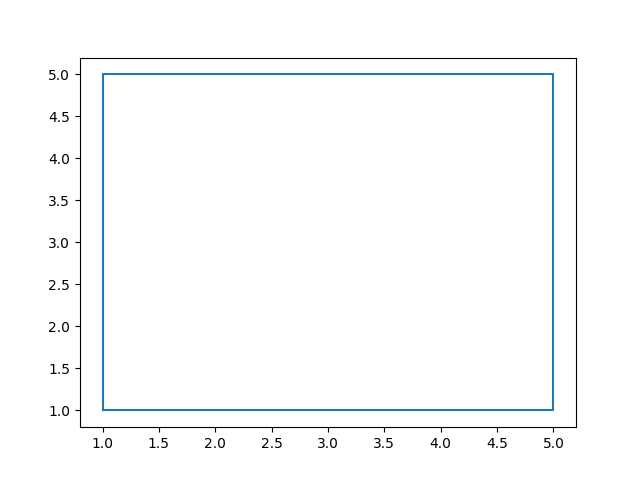
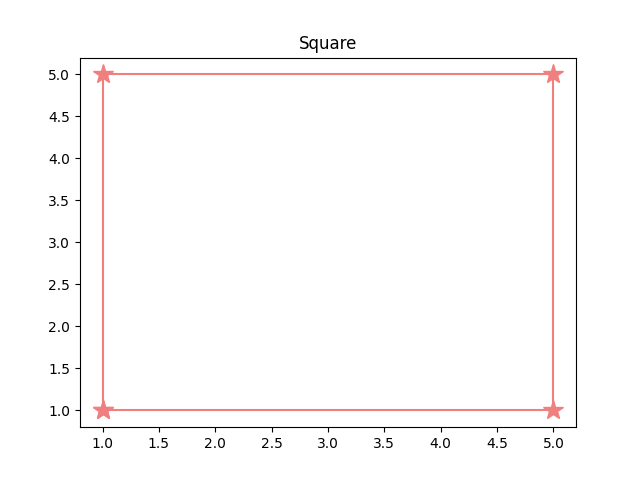
less 6

Changed region(s): [[0.1562, 0.0625, 0.875, 0.1875], [0.125, 0.8125, 0.875, 0.875]]

diff --git a/lab_6_osn_task2.py b/lab_6_osn_task2.py
@@ -1,10 +1,14 @@
 import matplotlib.pyplot as plt
 import numpy as np
 
-def hyperbola(k, N, x_min, x_max):
+def hyperbola(k, a, N, x_min, x_max):
     x = np.linspace(x_min, x_max, N)
-    y = k / x
-    plt.plot(x, y, 'o')
+    y = k / x + a
+
+    plt.plot(x, y, color='teal', marker='$f$', ms=20)
+    plt.xlabel('x')
+    plt.ylabel('y')
+    plt.title('Hyperbola')
     plt.savefig('lab_6_osn_task2.png')
 
-hyperbola(k=1, N=10, x_min=0.001, x_max=2)
+hyperbola(k=1, a=5, N=10, x_min=1, x_max=2)

diff --git a/lab_6_osn_task1.py b/lab_6_osn_task1.py
@@ -1,4 +1,5 @@
 import matplotlib.pyplot as plt
 
-plt.plot([1, 1, 5, 5, 1], [1, 5, 5, 1, 1])
+plt.plot([1, 1, 5, 5, 1], [1, 5, 5, 1, 1], marker='*', color='lightcoral', ms=15)
+plt.title('Square')
 plt.savefig('lab_6_osn_task1.png')

diff --git a/lab_6_osn_task3.py b/lab_6_osn_task3.py
@@ -1,0 +1,3 @@
+import matplotlib.pyplot as plt
+
+def ellips(x_min, x_max, N)
